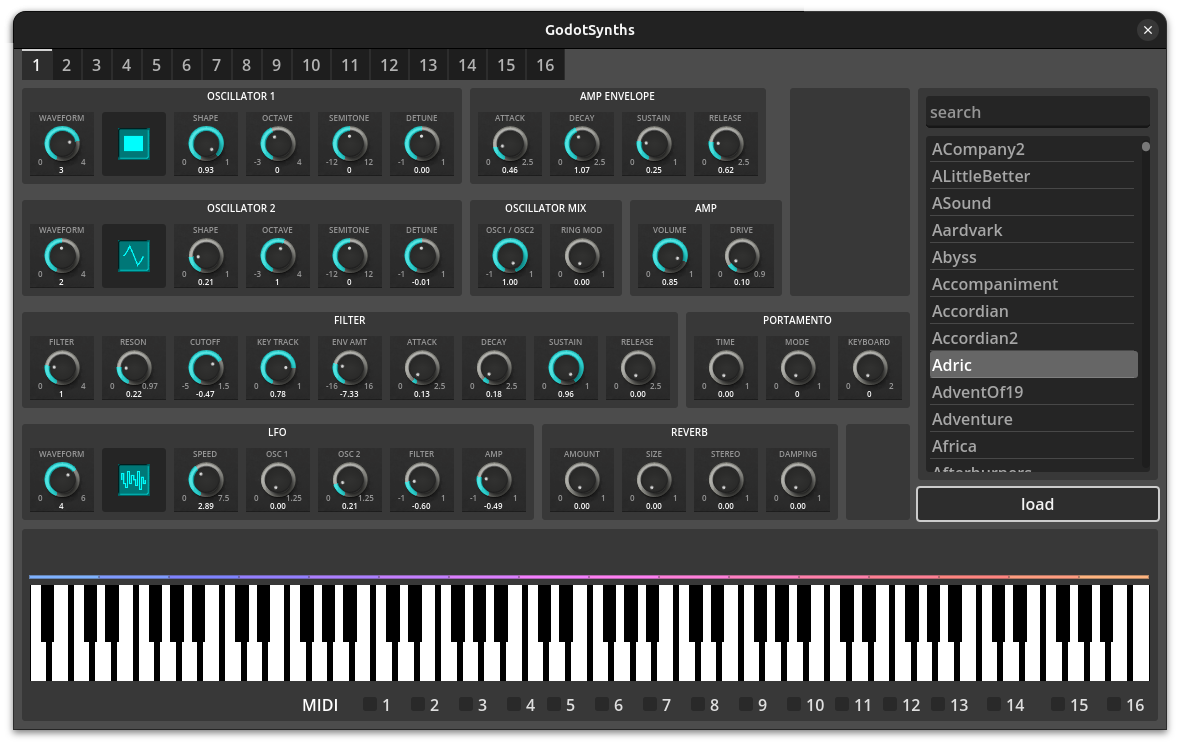
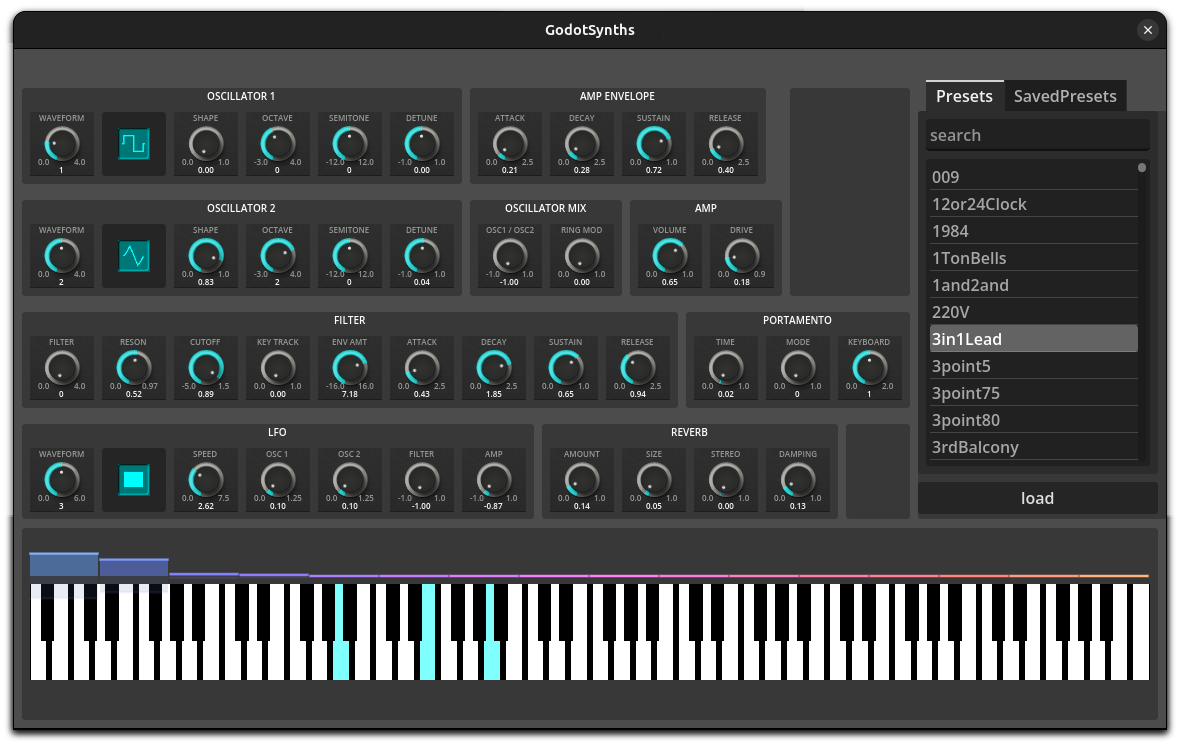
Update to godot 4.7 stable release

diff --git a/README.md b/README.md
@@ -3,6 +3,8 @@ godot-synths
 
 Godot project that uses [godot-csound](https://github.com/nonameentername/godot-csound/) and [godot-distrho](https://github.com/nonameentername/godot-distrho/) to build a synthesizer.
 
+Currently works with Godot v4.7 stable release.
+
 Also has support for connecting jack using [godot-jack](https://github.com/nonameentername/godot-jack)
 
 GodotSyth running in the browser [godot-synths](https://nonameentername.github.io/godot-synths/godot-synths.html)
